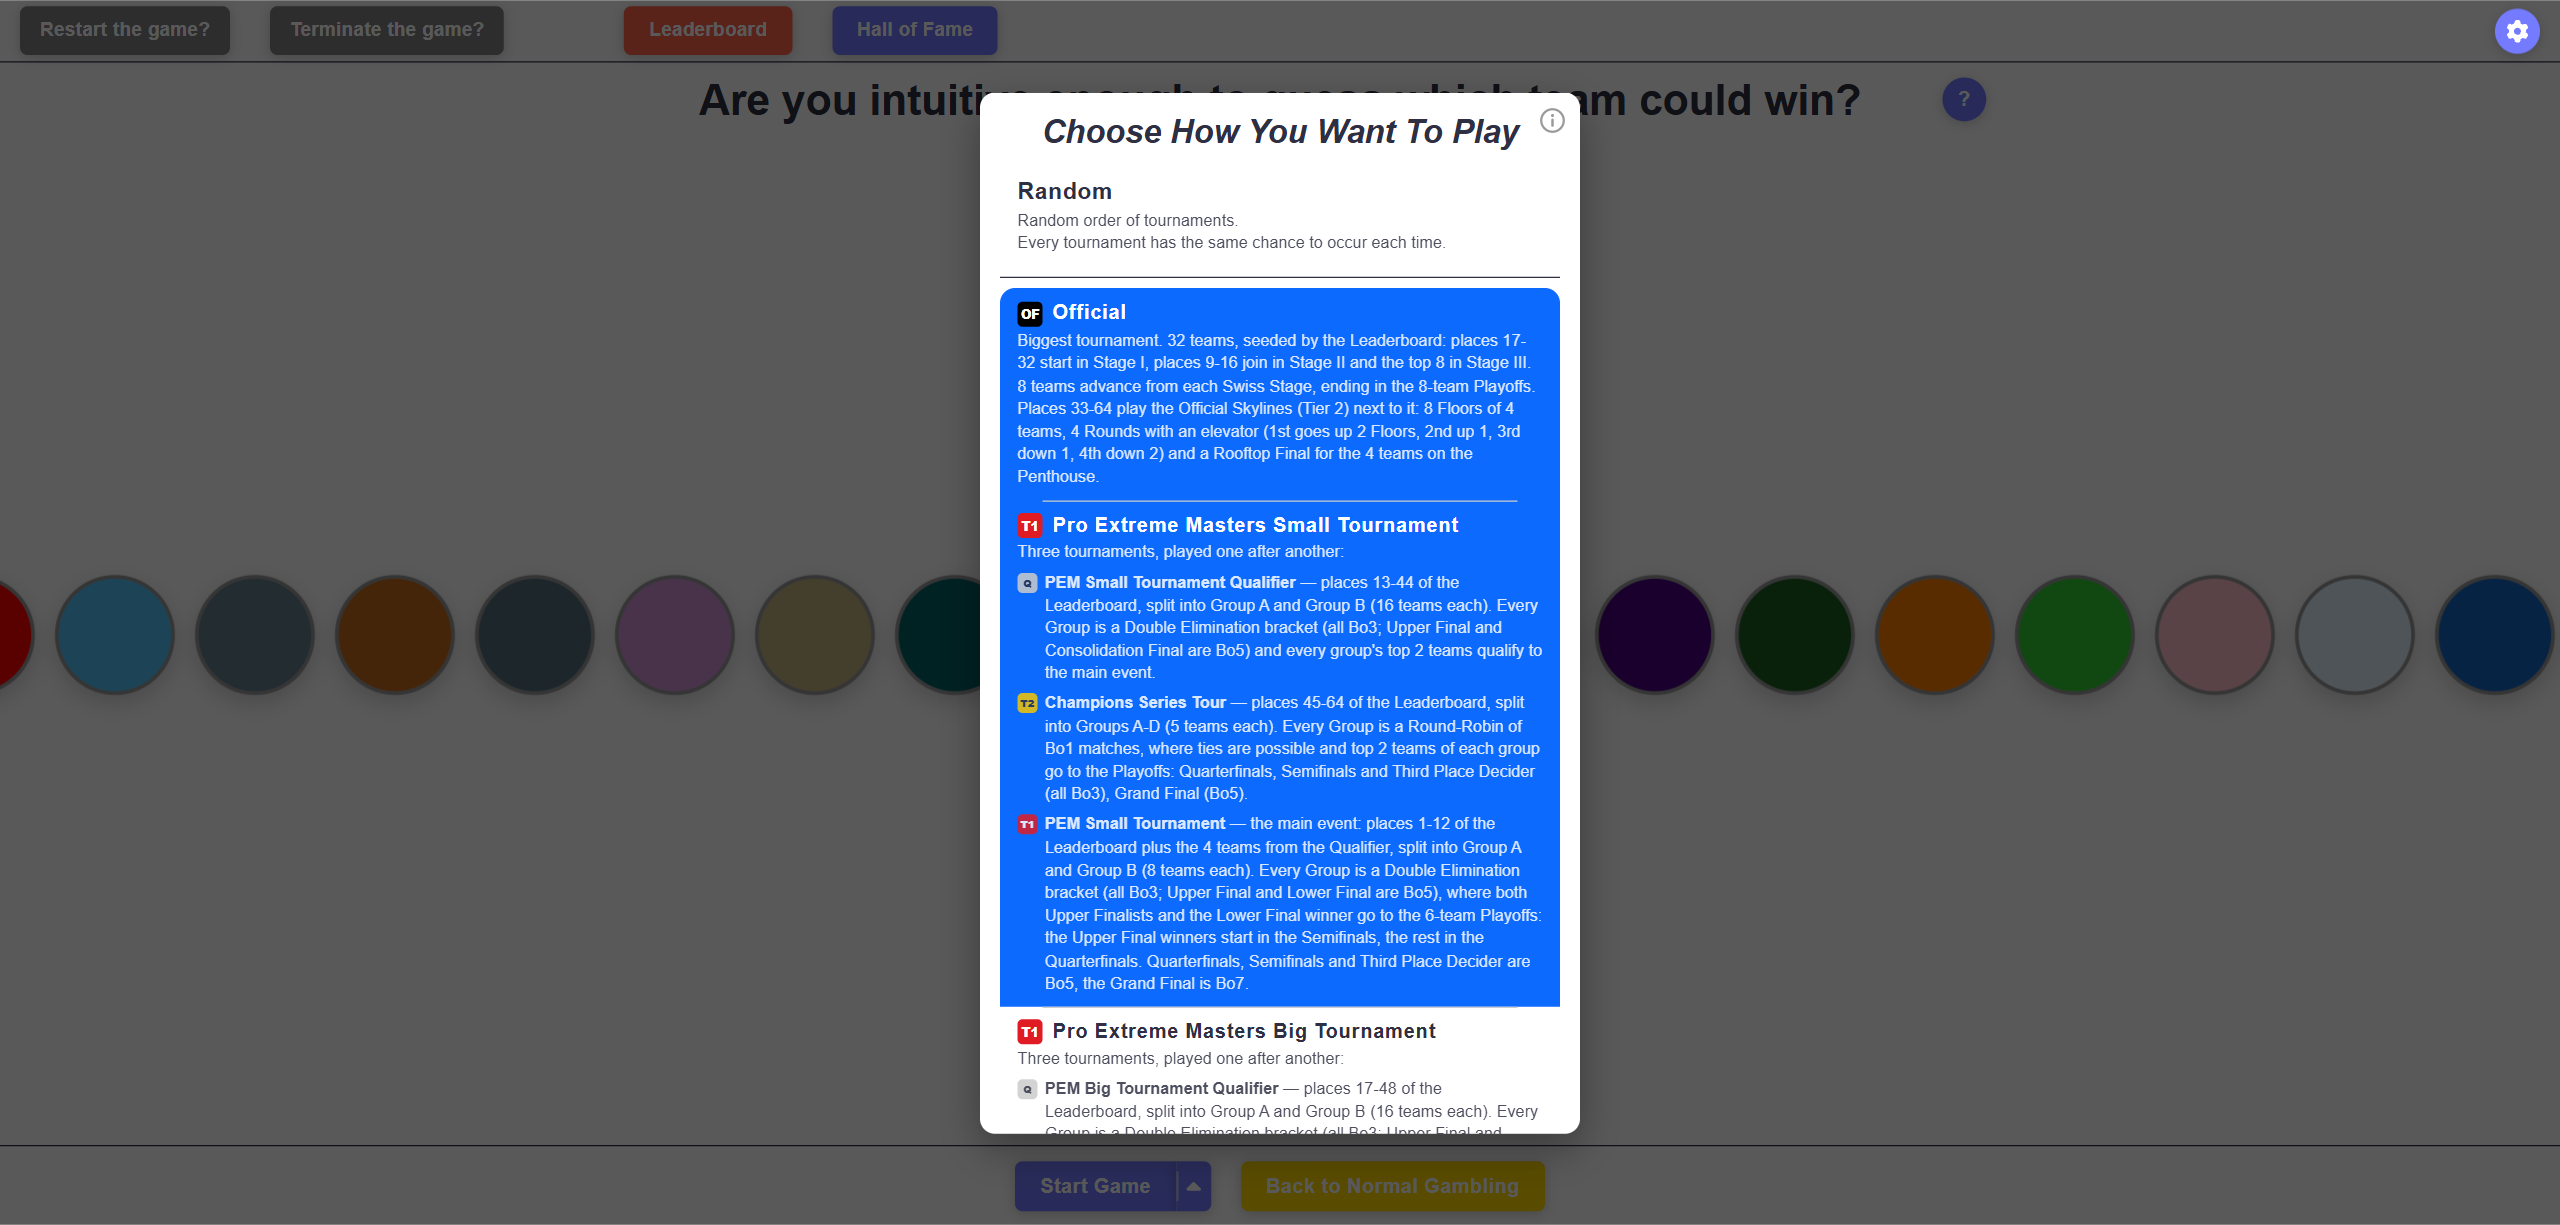
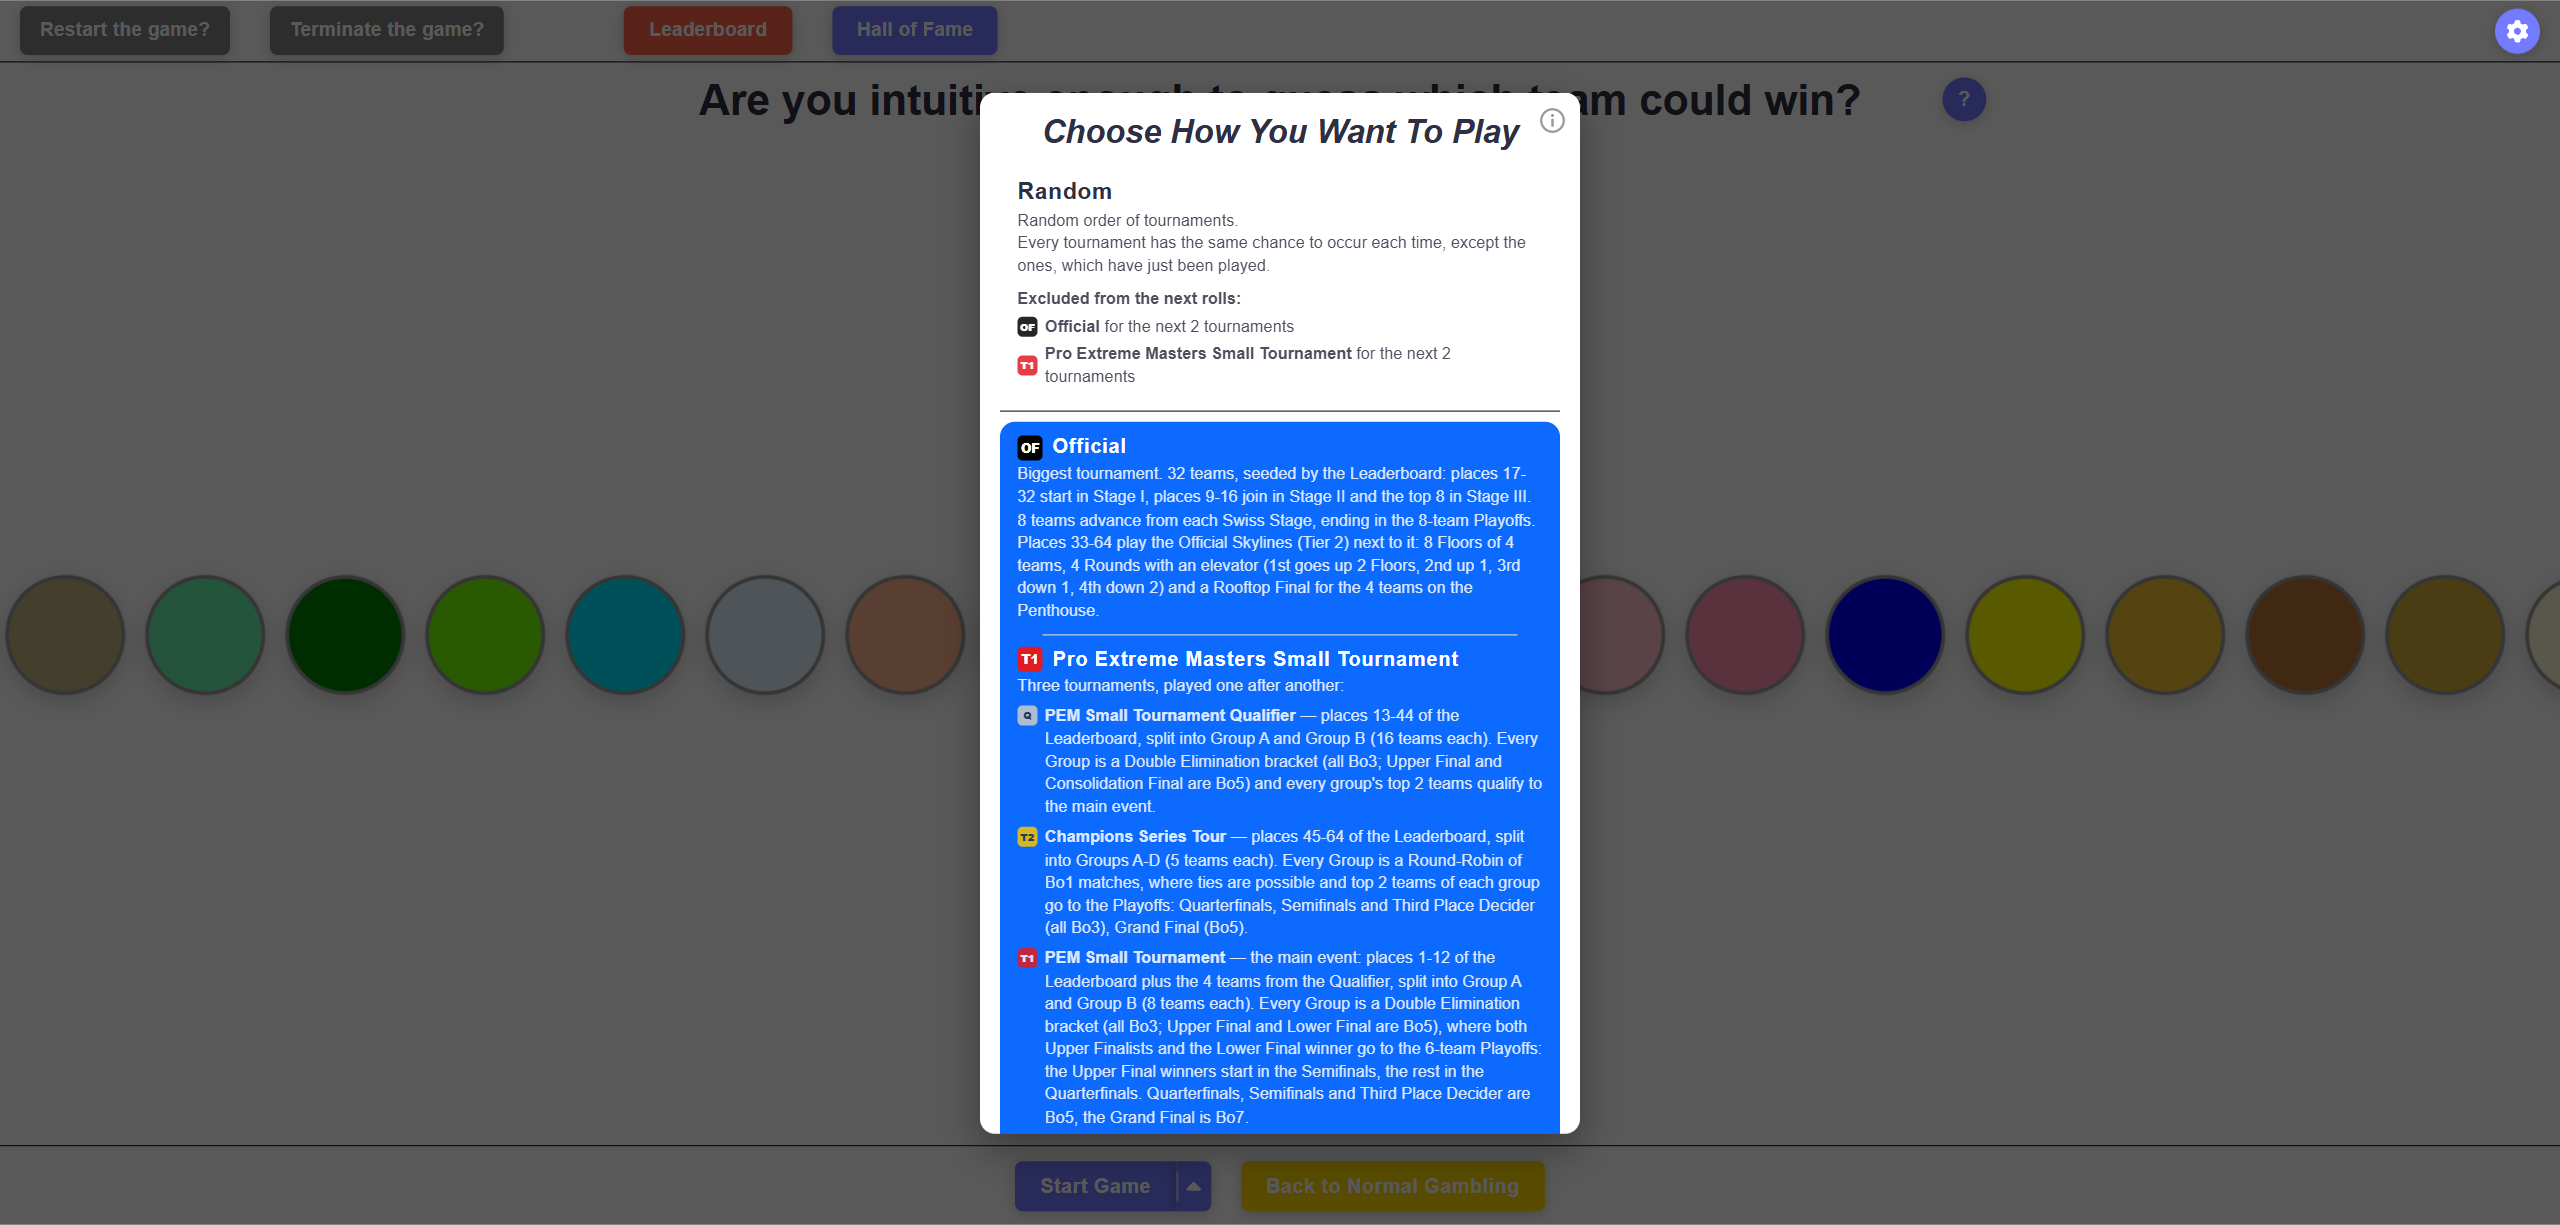
do some toast fixes and update Info Page

Changed region(s): [[0.0, 0.1861, 0.625, 0.9306], [0.625, 0.4653, 1.0, 0.5894]]

diff --git a/src/pages/SpecialModeInfoPage/SpecialModeInfoPage.jsx b/src/pages/SpecialModeInfoPage/SpecialModeInfoPage.jsx
@@ -991,7 +991,7 @@ const OfficialSubPage = ({ scrollToAnchor }) => (
             <p className={css.info_text}>
                 Here, you can set the tournament's roll on "Random", which could then any tournament from the list below or you can choose a specific tournament(s) you want to play.
                 If you choose more than one tournament in the list, random tournament out the picked ones will be activated. <br />
-                But "Random" never draws the same tournament twice in a row: once a tournament ends, it is excluded from the next roll (Official even from the next two). The "Random" option always shows, which tournaments are excluded at the moment and for how many more tournaments. Since nothing has been played yet, there are no exclusions here. <br />
+                But "Random" never draws a tournament, which has just been played: once a tournament ends, it is excluded from the next two rolls (Official even from the next three). Every time another tournament ends, these exclusions go down by one. The "Random" option always shows, which tournaments are excluded at the moment and for how many more tournaments. Since nothing has been played yet, there are no exclusions here. <br />
                 You can also see this icon in top-right corner, which can be hovered onto and it will show you the explanations for all the icons, which stand near the names of the tournaments in the modal:
             </p>
             <div className={css.image_container}>
@@ -1704,7 +1704,7 @@ const PemSmallSubPage = ({ scrollToAnchor }) => (
                 • <b>Champions Series Tour</b> (Tier 2) <br />
                 • <b>PEM Small Tournament</b> itself, the main event (Tier 1)
             </p>
-            <PemShot n={1} alt="Choose how you want to play modal with the PEM Small Tournament picked" />
+            <PemShot n={1} alt="Choose how you want to play modal with the PEM Small Tournament picked, Official excluded from the next 3 rolls" caption={'(Official #1 has just ended, so the "Random" option shows, that Official is excluded from the next 3 tournaments)'} />
             <p style={{ marginTop: '12px' }} className={css.info_text}>
                 All the teams are seeded by the Leaderboard at the moment the PEM Small Tournament is chosen: <br />
                 • Top 1-12 → Autoqualify to the <b>main event</b> <br />
@@ -1913,7 +1913,7 @@ const PemSmallSubPage = ({ scrollToAnchor }) => (
             <PemShot n={35} alt="Hall of Fame, PEM Small Tournament #1: the Playoffs" />
             <PemShot n={36} alt="Hall of Fame, PEM Small Tournament #1: the podium and the 5th and 6th places" />
             <p className={css.info_text}>
-                Afterwards, I can choose between <b>Official</b> and <b>PEM Small Tournament</b>, which #2 I'm going to have (or I'll go it via "Random", who knows):
+                Afterwards, I can choose between <b>Official</b> and <b>PEM Small Tournament</b>, which #2 I'm going to have (or I'll go it via "Random", who knows). Although via "Random", neither of them could come up right now: Official is still excluded for the next 2 tournaments and the PEM Small Tournament, which has just ended, for the next 2 as well:
             </p>
             <div className={css.image_container}>
                 <img src={hardChoiceToMake} alt="Hard choice to make: Official #2 or PEM Small Tournament #2?" className={css.image} style={{ width: '35vw', height: '35vh' }} />
@@ -2130,7 +2130,7 @@ const PemBigSubPage = ({ scrollToAnchor }) => (
             <BigShot n={39} alt="Hall of Fame, PEM Big Tournament #1: the Playoffs" />
             <BigShot n={40} alt="Hall of Fame, PEM Big Tournament #1: the podium" />
             <p className={css.info_text}>
-                Afterwards, there are three tournaments to choose from: <b>Official</b>, <b>PEM Small Tournament</b> and <b>PEM Big Tournament</b>. Which #2 is coming next? (Or I&apos;ll go it via "Random" again, who knows):
+                Afterwards, there are three tournaments to choose from: <b>Official</b>, <b>PEM Small Tournament</b> and <b>PEM Big Tournament</b>. Which #2 is coming next? (Or I&apos;ll go it via "Random" again, who knows. But "Random" would exclude all three of them right now: Official and the PEM Small Tournament for the next tournament, the PEM Big Tournament for the next 2):
             </p>
             <div className={css.image_container}>
                 <img src={hardChoiceToMakeTwo} alt="Hard choice to make: Official #2 or PEM Small Tournament #2 or PEM Big Tournament #2?" className={css.image} style={{ width: '35vw', height: '35vh' }} />
@@ -2383,7 +2383,7 @@ const GplSubPage = ({ scrollToAnchor }) => (
             <GplShot n={35} alt="Hall of Fame, Global Pro League #1: the podium with the Global Pro League trophy" />
             <GplShot n={36} alt="Hall of Fame, Global Pro League #1: the places 5-8" />
             <p className={css.info_text}>
-                And now, there are four tournaments to choose from: <b>Official</b>, <b>PEM Small Tournament</b>, <b>PEM Big Tournament</b> and <b>Global Pro League</b>. Every single one of them has had its #1 already, so which #2 comes first?
+                And now, there are four tournaments to choose from: <b>Official</b>, <b>PEM Small Tournament</b>, <b>PEM Big Tournament</b> and <b>Global Pro League</b>. Every single one of them has had its #1 already, so which #2 comes first? Via "Random", the PEM Big Tournament (for the next tournament) and the Global Pro League (for the next 2) are excluded now, while Official and the PEM Small Tournament can come up again.
             </p>
         </section>
     </>
@@ -2631,7 +2631,7 @@ const PbsSubPage = ({ scrollToAnchor }) => (
             <PbsShot n={48} alt="Hall of Fame, Premier Bounty Series Open Qualifier Season 1: the qualified teams and the link to the Premier Bounty Series" />
             <p className={css.info_text}>
                 And now, there are five tournaments to choose from: <b>Official</b>, <b>PEM Small Tournament</b>, <b>PEM Big Tournament</b>, <b>Global Pro League</b> and <b>Premier Bounty Series</b>.
-                Four of them are waiting for their #2, one for its Season 2. Who is going to hunt the bounties next time? (And there is one more tournament, which is played in a different city every time, see the{" "}
+                Four of them are waiting for their #2, one for its Season 2 (via "Random", the Global Pro League is excluded for the next tournament and the Premier Bounty Series for the next 2). Who is going to hunt the bounties next time? (And there is one more tournament, which is played in a different city every time, see the{" "}
                 <InfoLink onClick={scrollToAnchor("pgx-overview", "pgx")} href="?page=pgx#pgx-overview">PGX</InfoLink> tab.)
             </p>
         </section>
@@ -2835,7 +2835,7 @@ const PgxSubPage = ({ scrollToAnchor }) => (
             <PgxShot n={37} alt="Hall of Fame, PGX Grandmasters Jönköping #1: the podium with the PGX trophy" />
             <p className={css.info_text}>
                 And now, there are six tournaments to choose from: <b>Official</b>, <b>PEM Small Tournament</b>, <b>PEM Big Tournament</b>, <b>Global Pro League</b>, <b>Premier Bounty Series</b> and <b>PGX Grandmasters</b>.
-                Which city is going to be next?
+                Which city is going to be next? Not right now via "Random", at least: the PGX Grandmasters is excluded for the next 2 tournaments and the Premier Bounty Series for the next one.
             </p>
         </section>
     </>

diff --git a/src/pages/SpecialModePage/SpecialModePage.jsx b/src/pages/SpecialModePage/SpecialModePage.jsx
@@ -3826,6 +3826,8 @@ function SpecialModeContent() {
                     id: SECRET_TOAST_ID,
                     duration: 2000,
                     icon: "🤫",
+                    group: "secret",
+                    jump: true,
                 });
             }
 
@@ -3838,6 +3840,8 @@ function SpecialModeContent() {
                     id: SECRET_NUM_TWO_TOAST_ID,
                     duration: 2000,
                     icon: "😈",
+                    group: "secret",
+                    jump: true,
                 });
             }
 
@@ -3850,6 +3854,8 @@ function SpecialModeContent() {
                     id: SECRET_NUM_THREE_TOAST_ID,
                     duration: 2000,
                     icon: "🔓",
+                    group: "secret",
+                    jump: true,
                 });
             }
 
@@ -4625,7 +4631,9 @@ function SpecialModeContent() {
                     winner: wonOtRound ? "left" : "right",
                 });
 
-                roundToast(
+                const isKeyOtRound = otTiedBlock || updatedOtWins === OT_ROUNDS_TO_WIN || updatedOtLosses === OT_ROUNDS_TO_WIN;
+
+                if (!isKeyOtRound) roundToast(
                     <span>
                         {renderTeamLabel(wonOtRound ? prev.leftTeam : prev.rightTeam)} has won this{miniWinsToWinRound === 10 ? " Extended " : " "}OT round!
                     </span>,
@@ -4851,7 +4859,7 @@ function SpecialModeContent() {
                                 ? `Another overtime ends in a tie! ${currentOT} is tied 3-3 again! Starting ${nextOT}...`
                                 : `That's a tough battle we got here! ${currentOT} is tied 3-3 again! Starting ${nextOT}...`;
 
-                    toast(msg, { icon: "🔄", duration: 4000 });
+                    toast(msg, { icon: "🔄", duration: 4000, label: "Next Overtime", accent: "#ff7a1a" });
 
                     setIsLocked(true);
                     pendingAction = makePendingAction(SERIES_ACTIONS.NEXT_OT, 4000);
@@ -5045,7 +5053,14 @@ function SpecialModeContent() {
                 winner: playerWonRound ? "left" : "right",
             });
 
-            roundToast(
+            const isKeyRegularRound =
+                roundNumber === 12 ||
+                roundNumber === 13 ||
+                (roundWins === 12 && roundLosses === 12) ||
+                roundWins >= BASE_ROUNDS_TO_WIN ||
+                roundLosses >= BASE_ROUNDS_TO_WIN;
+
+            if (!isKeyRegularRound) roundToast(
                 <span>
                     {renderTeamLabel(playerWonRound ? prev.leftTeam : prev.rightTeam)} has won this{miniWinsToWinRound === 10 ? " Extended " : " "}round!
                 </span>,

diff --git a/src/pages/SpecialModePage/logic/renderSafeToast.js b/src/pages/SpecialModePage/logic/renderSafeToast.js
@@ -13,8 +13,16 @@ const SERIES_ROUND_ICONS = new Set(["😜", "🔥"]);
 let seriesQueue = [];
 let seriesShownAt = 0;
 let seriesTimer = null;
+let seriesShownItem = null;
 
 const isRoundToast = (item) => SERIES_ROUND_ICONS.has(item.options?.icon);
+const isReplaceableBy = (item, group) => !item || isRoundToast(item) || (!!group && item.options?.group === group);
+
+const showSeriesItem = (item) => {
+    seriesShownAt = Date.now();
+    seriesShownItem = item;
+    item.fn(item.message, seriesOptions(item.options));
+};
 
 const pumpSeriesQueue = () => {
     if (seriesTimer || seriesQueue.length === 0) return;
@@ -28,14 +36,28 @@ const pumpSeriesQueue = () => {
         return;
     }
 
-    const item = seriesQueue.shift();
-    seriesShownAt = Date.now();
-    item.fn(item.message, seriesOptions(item.options));
+    showSeriesItem(seriesQueue.shift());
     pumpSeriesQueue();
 };
 
 const enqueueSeriesToast = (fn, message, options) => {
     const item = { fn, message, options };
+
+    if (options?.jump) {
+        seriesQueue = seriesQueue.filter((queued) => !isReplaceableBy(queued, options.group));
+        const shownStillReadable = Date.now() < seriesShownAt + SERIES_MIN_DWELL_MS;
+        if (!shownStillReadable || isReplaceableBy(seriesShownItem, options.group)) {
+            if (seriesTimer) clearTimeout(seriesTimer);
+            seriesTimer = null;
+            showSeriesItem(item);
+            pumpSeriesQueue();
+        } else {
+            seriesQueue.unshift(item);
+            pumpSeriesQueue();
+        }
+        return;
+    }
+
     if (isRoundToast(item)) seriesQueue = seriesQueue.filter((queued) => !isRoundToast(queued));
     seriesQueue.push(item);
 
@@ -52,6 +74,7 @@ export const setSeriesToastMode = (active) => {
     if (!active) {
         seriesFeed = { ...seriesFeed, trail: [], current: null };
         seriesQueue = [];
+        seriesShownItem = null;
         if (seriesTimer) clearTimeout(seriesTimer);
         seriesTimer = null;
     }

diff --git a/src/components/App/AppToast.module.css b/src/components/App/AppToast.module.css
@@ -147,7 +147,7 @@
     display: flex;
     align-items: stretch;
     width: min(540px, calc(100vw - 32px));
-    height: 64px;
+    min-height: 64px;
     border-radius: 14px;
     background:
         radial-gradient(90% 160% at 12% 50%, color-mix(in srgb, var(--toast-accent) 28%, transparent) 0%, transparent 60%),
@@ -197,7 +197,7 @@
     display: flex;
     align-items: center;
     gap: 12px;
-    padding: 0 14px 4px 12px;
+    padding: 9px 14px 12px 12px;
     overflow: hidden;
     animation: toast-swap 380ms cubic-bezier(0.2, 1.2, 0.45, 1) both;
 }
@@ -258,9 +258,8 @@
     line-height: 1.35;
     width: max-content;
     max-width: 100%;
-    white-space: nowrap;
-    overflow: hidden;
-    text-overflow: ellipsis;
+    white-space: normal;
+    overflow-wrap: anywhere;
 }
 
 .series_trail {
